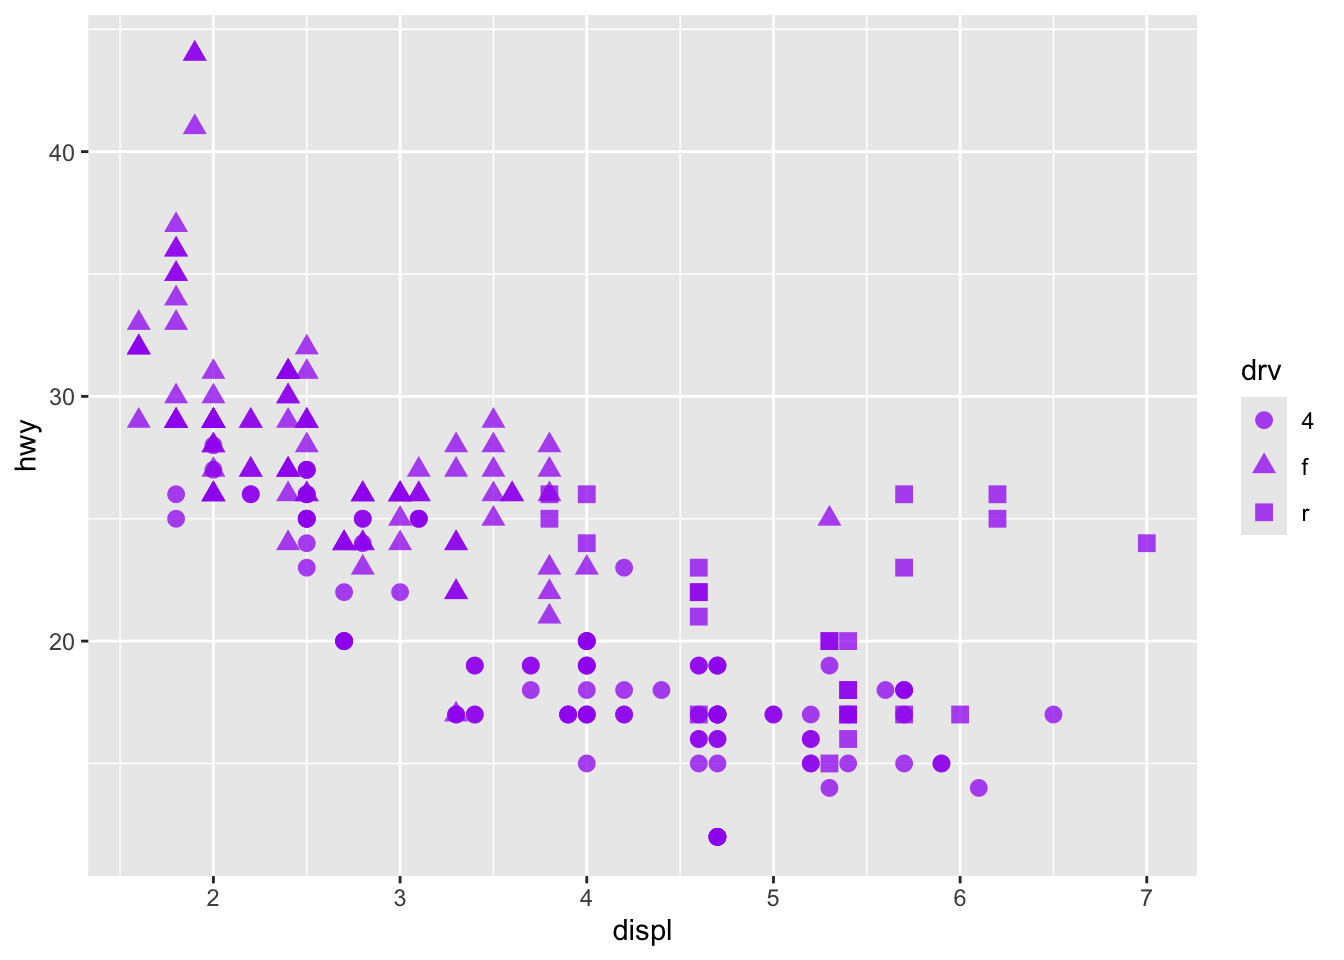
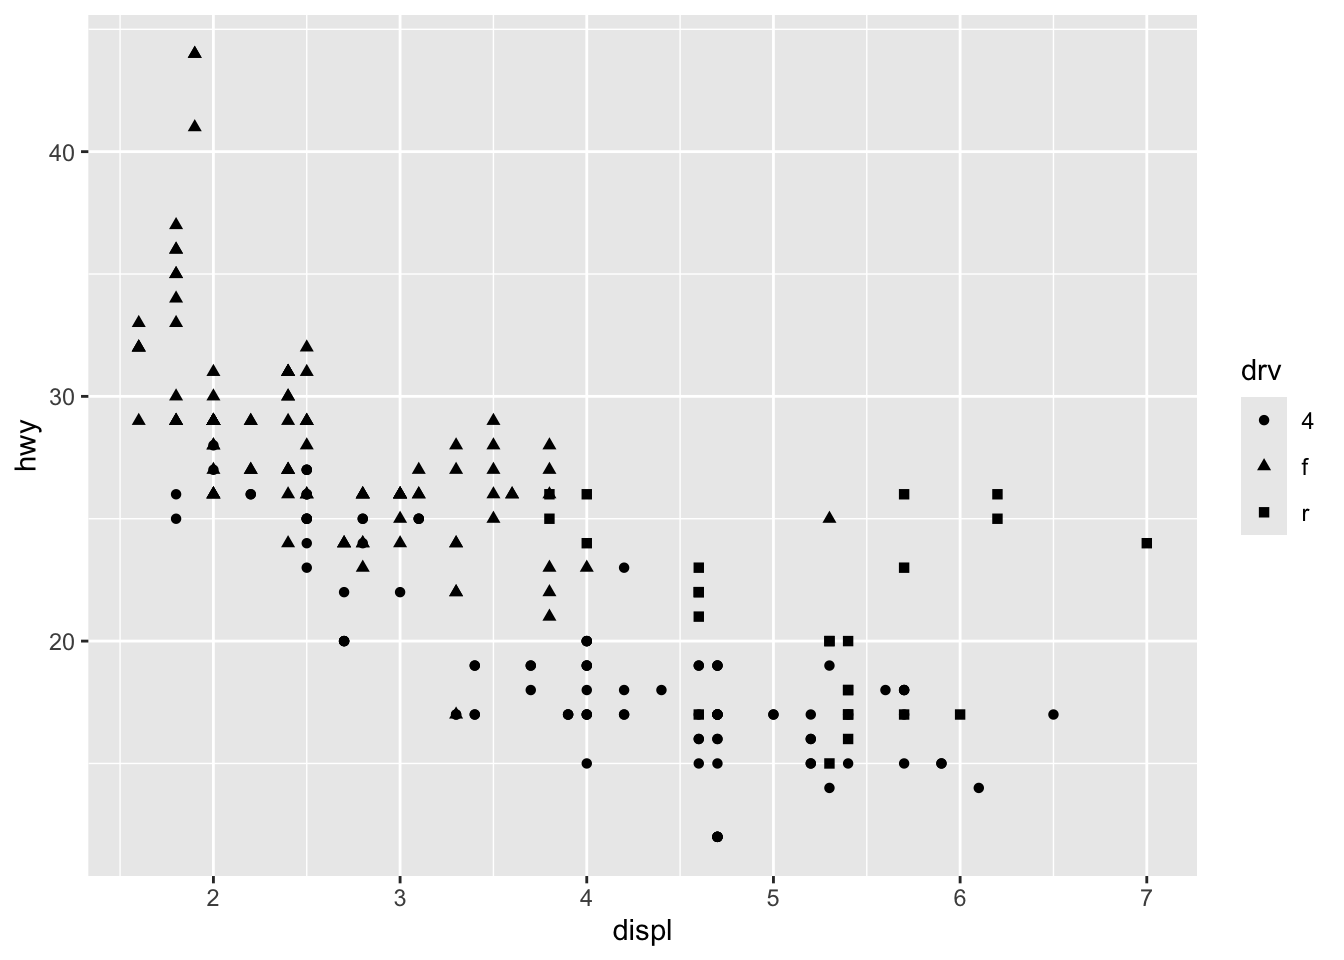
Simplify site layout and final blog example

diff --git a/index.html b/index.html
@@ -10,27 +10,25 @@
         
         body {
             font-family: 'Inter', sans-serif;
+            color: #1f2937;
         }
         
         .gradient-bg {
-            background: linear-gradient(135deg, #667eea 0%, #764ba2 100%);
+            background: #111827;
         }
         
         .gradient-text {
-            background: linear-gradient(135deg, #667eea 0%, #764ba2 100%);
-            -webkit-background-clip: text;
-            -webkit-text-fill-color: transparent;
-            background-clip: text;
+            color: #111827;
         }
         
         .nav-tab {
             position: relative;
             padding-bottom: 8px;
-            transition: all 0.3s ease;
+            transition: color 0.2s ease;
         }
         
         .nav-tab.active {
-            color: #667eea;
+            color: #111827;
         }
         
         .nav-tab.active::after {
@@ -39,14 +37,13 @@
             bottom: 0;
             left: 0;
             right: 0;
-            height: 3px;
-            background: linear-gradient(90deg, #667eea 0%, #764ba2 100%);
+            height: 2px;
+            background: #111827;
             border-radius: 2px;
         }
         
         .nav-tab:hover:not(.active) {
-            color: #667eea;
-            transform: translateY(-2px);
+            color: #111827;
         }
         
         .hidden-section {
@@ -54,12 +51,11 @@
         }
         
         .card {
-            transition: all 0.3s ease;
+            transition: box-shadow 0.2s ease;
         }
         
         .card:hover {
-            transform: translateY(-5px);
-            box-shadow: 0 20px 25px -5px rgba(0, 0, 0, 0.1), 0 10px 10px -5px rgba(0, 0, 0, 0.04);
+            box-shadow: 0 10px 25px rgba(15, 23, 42, 0.08);
         }
         
         .section-title {
@@ -74,26 +70,21 @@
             bottom: 0;
             left: 0;
             width: 60px;
-            height: 4px;
-            background: linear-gradient(90deg, #667eea 0%, #764ba2 100%);
+            height: 3px;
+            background: #d1d5db;
             border-radius: 2px;
         }
         
         .link-button {
-            transition: all 0.3s ease;
+            transition: opacity 0.2s ease;
         }
         
         .link-button:hover {
-            transform: scale(1.05);
+            opacity: 0.9;
         }
         
         .profile-photo {
-            transition: all 0.3s ease;
-            box-shadow: 0 20px 25px -5px rgba(102, 126, 234, 0.3), 0 10px 10px -5px rgba(118, 75, 162, 0.2);
-        }
-        
-        .profile-photo:hover {
-            transform: scale(1.05);
+            box-shadow: 0 10px 25px rgba(15, 23, 42, 0.12);
         }
         
         @keyframes fadeIn {
@@ -126,38 +117,38 @@
         }
         
         .badge-publication {
-            background: linear-gradient(135deg, #667eea 0%, #764ba2 100%);
-            color: white;
+            background: #e5e7eb;
+            color: #374151;
         }
         
         .badge-working {
-            background: linear-gradient(135deg, #f093fb 0%, #f5576c 100%);
-            color: white;
+            background: #e5e7eb;
+            color: #374151;
         }
     </style>
 </head>
-<body class="bg-gradient-to-br from-gray-50 via-purple-50 to-blue-50 min-h-screen">
+<body class="bg-gray-50 min-h-screen">
     <!-- Navigation -->
-    <nav class="bg-white/80 backdrop-blur-lg border-b border-gray-200 sticky top-0 z-50 shadow-sm">
+    <nav class="bg-white border-b border-gray-200 sticky top-0 z-50">
         <div class="max-w-7xl mx-auto px-4 sm:px-6 lg:px-8">
-            <div class="flex justify-center items-center h-20">
-                <div class="flex space-x-12">
-                    <button onclick="showSection('home')" class="nav-tab active text-sm font-semibold text-purple-600 hover:text-purple-700 transition-colors uppercase tracking-wider" data-section="home">
+            <div class="flex justify-center items-center min-h-20 py-4">
+                <div class="flex flex-wrap justify-center gap-x-8 gap-y-3">
+                    <button onclick="showSection('home')" class="nav-tab active text-sm font-semibold text-gray-900 transition-colors uppercase tracking-wider" data-section="home">
                         Home
                     </button>
-                    <button onclick="showSection('cv')" class="nav-tab text-sm font-semibold text-gray-600 hover:text-purple-700 transition-colors uppercase tracking-wider" data-section="cv">
+                    <button onclick="showSection('cv')" class="nav-tab text-sm font-semibold text-gray-600 transition-colors uppercase tracking-wider" data-section="cv">
                         CV
                     </button>
-                    <button onclick="showSection('research')" class="nav-tab text-sm font-semibold text-gray-600 hover:text-purple-700 transition-colors uppercase tracking-wider" data-section="research">
+                    <button onclick="showSection('research')" class="nav-tab text-sm font-semibold text-gray-600 transition-colors uppercase tracking-wider" data-section="research">
                         Research
                     </button>
-                    <button onclick="showSection('teaching')" class="nav-tab text-sm font-semibold text-gray-600 hover:text-purple-700 transition-colors uppercase tracking-wider" data-section="teaching">
+                    <button onclick="showSection('teaching')" class="nav-tab text-sm font-semibold text-gray-600 transition-colors uppercase tracking-wider" data-section="teaching">
                         Teaching
                     </button>
-                    <button onclick="showSection('contact')" class="nav-tab text-sm font-semibold text-gray-600 hover:text-purple-700 transition-colors uppercase tracking-wider" data-section="contact">
+                    <button onclick="showSection('contact')" class="nav-tab text-sm font-semibold text-gray-600 transition-colors uppercase tracking-wider" data-section="contact">
                         Contact
                     </button>
-                    <button onclick="showSection('blog')" class="nav-tab text-sm font-semibold text-gray-600 hover:text-purple-700 transition-colors uppercase tracking-wider" data-section="blog">
+                    <button onclick="showSection('blog')" class="nav-tab text-sm font-semibold text-gray-600 transition-colors uppercase tracking-wider" data-section="blog">
                         Blog
                     </button>
                 </div>
@@ -181,7 +172,7 @@
                     <div class="space-y-3">
                         <p class="text-2xl font-semibold text-gray-800">PhD Student</p>
                         <p class="text-xl text-gray-600">Department of Agricultural and Applied Economics</p>
-                        <p class="text-xl font-medium text-purple-600">Virginia Tech</p>
+                        <p class="text-xl font-medium text-gray-700">Virginia Tech</p>
                     </div>
                 </div>
             </div>
@@ -228,69 +219,6 @@
                     </div>
                 </section>
 
-                <!-- Working Papers Section -->
-                <section>
-                    <h3 class="text-3xl font-bold text-gray-800 mb-6 flex items-center gap-3">
-                        Working Papers
-                        <span class="badge badge-working">In Progress</span>
-                    </h3>
-                    <div class="space-y-6">
-                        <div class="bg-white p-8 border-l-8 border-pink-500 rounded-2xl shadow-xl card">
-                            <h4 class="text-xl font-bold text-gray-900 mb-3">
-                                <a href="https://ageconsearch.umn.edu/record/361045?v=pdf" target="_blank" rel="noopener noreferrer" class="text-pink-600 hover:text-pink-800 hover:underline link-button inline-flex items-center gap-2">
-                                    Evaluating North American Dairy Trade Pre- and Post-USMCA Using a Quantitative Trade Model
-                                    <svg class="w-5 h-5" fill="none" stroke="currentColor" viewBox="0 0 24 24"><path stroke-linecap="round" stroke-linejoin="round" stroke-width="2" d="M10 6H6a2 2 0 00-2 2v10a2 2 0 002 2h10a2 2 0 002-2v-4M14 4h6m0 0v6m0-6L10 14"></path></svg>
-                                </a>
-                            </h4>
-                            <p class="text-sm text-gray-600 mb-4 font-medium">with Jason H. Grant and Nicolas Legrand</p>
-                            <div class="bg-gradient-to-r from-pink-50 to-red-50 p-6 rounded-xl">
-                                <p class="text-gray-800 abstract-text">
-                                    <span class="font-bold text-pink-700">Abstract:</span> The United States-Mexico-Canada Agreement (USMCA), effective in 2020, revised dairy trade provisions between the United States and Canada. However, disputes have arisen over the allocation of Canada's tariff rate quotas (TRQs). This paper analyzes the impact of the USMCA on US dairy exports to Canada by quantifying changes in unobservable trade costs using an international border indicator and estimated trade elasticity within a structural gravity framework. Our empirical analysis finds no economically or statistically significant change in Canada's trade costs facing U.S. dairy exports—either at the aggregate or individual product level—following the implementation of the USMCA on July 1, 2020. Moreover, we estimate that U.S. exports face higher trade frictions in Canada than in other major export destinations (eg, 65.1 percent higher than Mexico). Counterfactual simulations suggest that reducing U.S.-Canada export frictions to levels comparable to U.S.-Mexico would increase U.S. exports to Canada and Canadian exports to the U.S., albeit with a decline in intra-national trade. Export diversification toward emerging economies, coupled with targeted trade negotiations, could mitigate U.S. reliance on Canada's dairy market.
-                                </p>
-                            </div>
-                        </div>
-
-                        <div class="bg-white p-8 border-l-8 border-indigo-500 rounded-2xl shadow-xl card">
-                            <h4 class="text-xl font-bold text-gray-900 mb-3">Trust in Hypothetical Blockchain Claims</h4>
-                            <p class="text-sm text-gray-600 mb-4 font-medium">with William Secor and Benjamin Campbell</p>
-                            <div class="bg-gradient-to-r from-indigo-50 to-purple-50 p-6 rounded-xl">
-                                <p class="text-gray-800 abstract-text">
-                                    <span class="font-bold text-indigo-700">Abstract:</span> Trust in credence attribute claims and food-related information is essential to generate value from the work taken to create the claim. Blockchain technology may soon be another way in which claims can be managed along the supply chain. This study investigates whether the verification mechanism behind a claim on a product, including blockchain, and the owner of that mechanism affects consumers' trust in the claim. Using information treatments in a national survey, the results suggest that the method verifying a claim is not important in most cases unless the method is described to the consumer.
-                                </p>
-                            </div>
-                        </div>
-
-                        <div class="bg-white p-8 border-l-8 border-blue-500 rounded-2xl shadow-xl card">
-                            <h4 class="text-xl font-bold text-gray-900 mb-3">Distributional Assessment of the Impact of Imports and Exports on Net Farm Income</h4>
-                            <p class="text-sm text-gray-600 mb-4 font-medium">with Le Wang</p>
-                            <div class="bg-gradient-to-r from-blue-50 to-cyan-50 p-6 rounded-xl">
-                                <p class="text-gray-800 abstract-text">
-                                    In this project, we recognize that exposure to both imports and exports affects farm income. We construct a measure of exposure at the county level by taking into account a range of agricultural exports and imports across different countries. We employ an instrumental quantile regression model to quantify the effect across the entire income distribution.
-                                </p>
-                            </div>
-                        </div>
-
-                        <div class="bg-white p-8 border-l-8 border-green-500 rounded-2xl shadow-xl card">
-                            <h4 class="text-xl font-bold text-gray-900 mb-3">Impact of Agricultural Imports on Farmland Rental Rates: A Causal ML Approach</h4>
-                            <p class="text-sm text-gray-600 mb-4 font-medium">with Le Wang</p>
-                            <div class="bg-gradient-to-r from-green-50 to-emerald-50 p-6 rounded-xl">
-                                <p class="text-gray-800 abstract-text">
-                                    The motivation behind this project is the increasing farm size in the U.S. and declining farm numbers. We ask the following questions: 1) Does availability of new export markets cause lands of low-productive farms to be consolidated by more productive farms? 2) What is the effect of trade on land values across tenants and landowners?
-                                </p>
-                            </div>
-                        </div>
-
-                        <div class="bg-white p-8 border-l-8 border-teal-500 rounded-2xl shadow-xl card">
-                            <h4 class="text-xl font-bold text-gray-900 mb-3">Impact of Edge of Field Practices on Crop Productivity: An Event Study Approach</h4>
-                            <p class="text-sm text-gray-600 mb-4 font-medium">with Nicolas Legrand and Jason H. Grant</p>
-                            <div class="bg-gradient-to-r from-teal-50 to-cyan-50 p-6 rounded-xl">
-                                <p class="text-gray-800 abstract-text">
-                                    In 2015, the state of Minnesota introduced a buffer law under which farm fields bordering waters must maintain perennial vegetative buffers of up to 50 feet along lakes, rivers, and streams and buffers of up to 16.5 feet along ditches. Using county-level yield data and counties from neighboring states—Iowa, Wisconsin, South, and North Dakota—as controls, we assess the dynamic impact of the law on the yield of soybeans and corn.
-                                </p>
-                            </div>
-                        </div>
-                    </div>
-                </section>
             </div>
         </div>
 
@@ -421,48 +349,22 @@
         <div id="blog-section" class="content-section hidden-section">
             <div class="space-y-10 max-w-5xl mx-auto">
                 <h2 class="text-4xl font-bold text-gray-900 section-title">Blog</h2>
-                <div class="bg-white rounded-3xl shadow-2xl border border-purple-100 overflow-hidden card">
-                    <div class="bg-gradient-to-r from-purple-600 via-blue-600 to-indigo-600 px-10 py-12 text-white">
-                        <p class="text-sm font-semibold uppercase tracking-[0.25em] opacity-90">Featured Post</p>
-                        <h3 class="mt-4 text-3xl md:text-4xl font-bold leading-tight">What <span class="bg-white/15 px-3 py-1 rounded-xl">aes()</span> Really Does in ggplot2</h3>
-                        <p class="mt-4 text-lg text-purple-50 max-w-3xl">
-                            A beginner-friendly explanation of how <span class="font-semibold">ggplot2</span> maps data to visual roles, and why that matters if you want to validate charts instead of just generating them.
-                        </p>
-                    </div>
-                    <div class="px-10 py-10 space-y-6">
+                <div class="bg-white rounded-2xl shadow-sm border border-gray-200 p-8 card">
+                    <div class="space-y-4">
                         <div class="flex flex-wrap gap-3 text-sm font-semibold">
-                            <span class="px-4 py-2 rounded-full bg-purple-100 text-purple-700">R</span>
-                            <span class="px-4 py-2 rounded-full bg-blue-100 text-blue-700">ggplot2</span>
-                            <span class="px-4 py-2 rounded-full bg-indigo-100 text-indigo-700">Data Visualization</span>
+                            <span class="px-3 py-1 rounded-full bg-gray-100 text-gray-700">R</span>
+                            <span class="px-3 py-1 rounded-full bg-gray-100 text-gray-700">ggplot2</span>
+                            <span class="px-3 py-1 rounded-full bg-gray-100 text-gray-700">Data Visualization</span>
+                            <span class="px-3 py-1 rounded-full bg-gray-100 text-gray-700">4 min read</span>
                         </div>
-                        <p class="text-lg text-gray-700 leading-8">
-                            I wrote this post after realizing AI was helping me make plots faster than I actually understood them.
-                            The idea that helped me slow down was simple: <span class="font-semibold text-purple-700">aes() does not draw anything. It maps data to visual roles, and geoms use those instructions to draw the chart.</span>
-                        </p>
-                        <div class="grid md:grid-cols-2 gap-6">
-                            <div class="bg-gradient-to-br from-gray-50 to-purple-50 rounded-2xl p-6 border border-gray-100">
-                                <p class="text-sm font-semibold uppercase tracking-wide text-purple-700">What You Will Learn</p>
-                                <ul class="mt-4 space-y-3 text-gray-700 leading-7 list-disc list-inside">
-                                    <li>How <span class="font-semibold">data</span>, <span class="font-semibold">mapping</span>, and <span class="font-semibold">geom</span> work together</li>
-                                    <li>Why <span class="font-semibold">aes()</span> is the mapping layer</li>
-                                    <li>The difference between mapping a variable and setting a fixed style</li>
-                                </ul>
-                            </div>
-                            <div class="bg-gradient-to-br from-blue-50 to-indigo-50 rounded-2xl p-6 border border-blue-100">
-                                <p class="text-sm font-semibold uppercase tracking-wide text-blue-700">Read Time</p>
-                                <p class="mt-4 text-gray-700 leading-7">
-                                    About 4 minutes. Written for beginners in R who want a clearer mental model before memorizing more syntax.
-                                </p>
-                            </div>
-                        </div>
-                        <div class="pt-2">
-                            <a href="blog/what-aes-really-does-in-ggplot2.html" class="inline-flex items-center gap-3 px-8 py-4 gradient-bg text-white rounded-xl hover:shadow-2xl transition-all font-bold text-lg uppercase tracking-wide link-button">
-                                Read the Post
-                                <svg class="w-5 h-5" fill="none" stroke="currentColor" viewBox="0 0 24 24">
-                                    <path stroke-linecap="round" stroke-linejoin="round" stroke-width="2" d="M9 5l7 7-7 7"></path>
-                                </svg>
+                        <h3 class="text-2xl md:text-3xl font-bold text-gray-900 leading-tight">
+                            <a href="blog/what-aes-really-does-in-ggplot2.html" class="hover:underline">
+                                What <span class="font-mono">aes()</span> Really Does in ggplot2
                             </a>
-                        </div>
+                        </h3>
+                        <p class="text-base text-gray-600 leading-7 max-w-3xl">
+                            A beginner-friendly explanation of how ggplot2 maps data to visual roles.
+                        </p>
                     </div>
                 </div>
             </div>
@@ -471,11 +373,11 @@
     </main>
 
     <!-- Footer -->
-    <footer class="gradient-bg text-white mt-24 py-12">
+    <footer class="bg-white border-t border-gray-200 mt-24 py-12">
         <div class="max-w-7xl mx-auto px-4 sm:px-6 lg:px-8">
             <div class="text-center space-y-4">
-                <p class="text-lg font-semibold">© 2024 Ajit Khanal</p>
-                <p class="text-sm opacity-90">PhD Student • Department of Agricultural and Applied Economics • Virginia Tech</p>
+                <p class="text-lg font-semibold text-gray-900">© 2024 Ajit Khanal</p>
+                <p class="text-sm text-gray-600">PhD Student • Department of Agricultural and Applied Economics • Virginia Tech</p>
             </div>
         </div>
     </footer>
@@ -498,7 +400,7 @@
             const navButtons = document.querySelectorAll('.nav-tab');
             navButtons.forEach(button => {
                 button.classList.remove('active');
-                button.classList.remove('text-purple-600');
+                button.classList.remove('text-gray-900');
                 button.classList.add('text-gray-600');
             });
 
@@ -506,7 +408,7 @@
             if (activeButton) {
                 activeButton.classList.add('active');
                 activeButton.classList.remove('text-gray-600');
-                activeButton.classList.add('text-purple-600');
+                activeButton.classList.add('text-gray-900');
             }
 
             // Scroll to top smoothly

diff --git a/blog/what-aes-really-does-in-ggplot2.html b/blog/what-aes-really-does-in-ggplot2.html
@@ -563,7 +563,7 @@ f
 <p>And then the geom uses that mapping:</p>
 <div class="cell">
 <div class="sourceCode cell-code" id="cb9"><pre class="sourceCode r code-with-copy"><code class="sourceCode r"><span id="cb9-1"><a href="#cb9-1" aria-hidden="true" tabindex="-1"></a><span class="fu">ggplot</span>(mpg, <span class="fu">aes</span>(<span class="at">x =</span> displ, <span class="at">y =</span> hwy, <span class="at">shape =</span> drv)) <span class="sc">+</span></span>
-<span id="cb9-2"><a href="#cb9-2" aria-hidden="true" tabindex="-1"></a>  <span class="fu">geom_point</span>(<span class="at">color =</span> <span class="st">"purple"</span>, <span class="at">alpha =</span> <span class="fl">0.75</span>, <span class="at">size =</span> <span class="fl">2.8</span>)</span></code><button title="Copy to Clipboard" class="code-copy-button"><i class="bi"></i></button></pre></div>
+<span id="cb9-2"><a href="#cb9-2" aria-hidden="true" tabindex="-1"></a>  <span class="fu">geom_point</span>()</span></code><button title="Copy to Clipboard" class="code-copy-button"><i class="bi"></i></button></pre></div>
 <div class="cell-output-display">
 <div>
 <figure class="figure">
